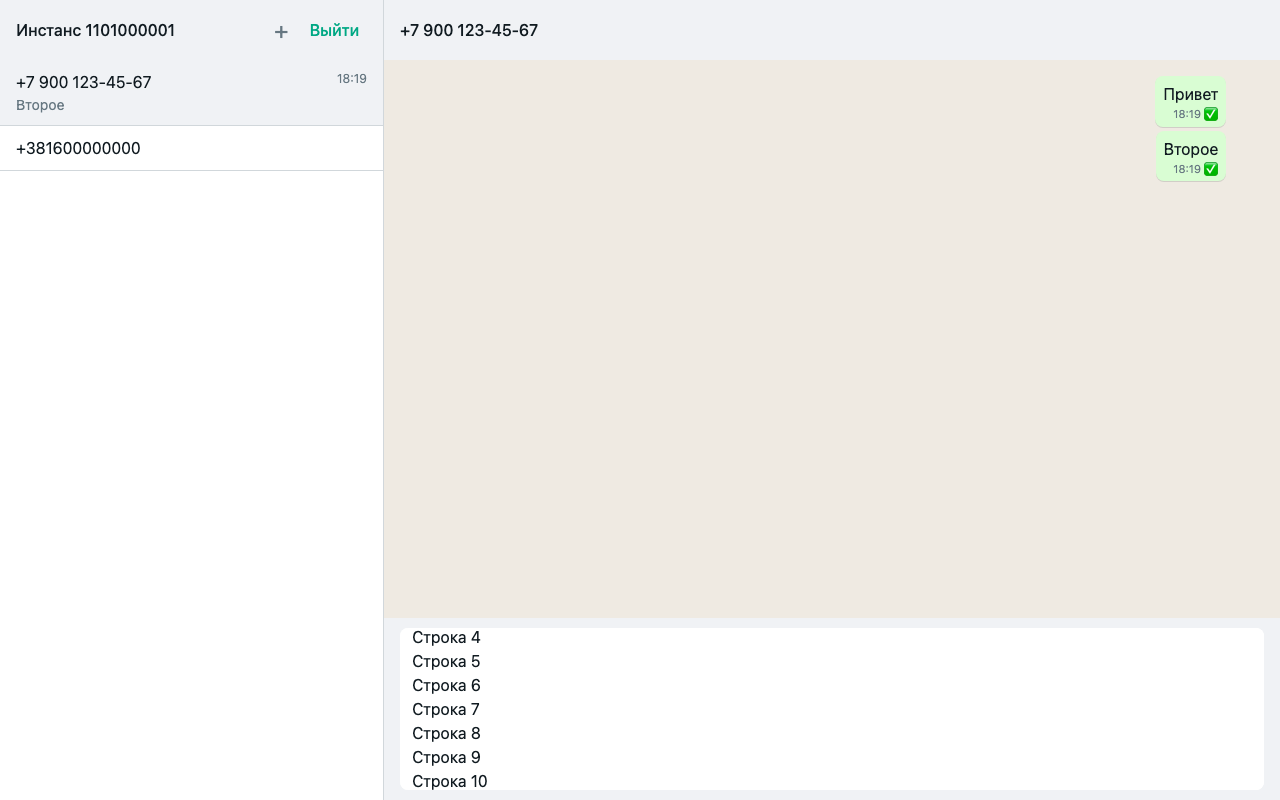
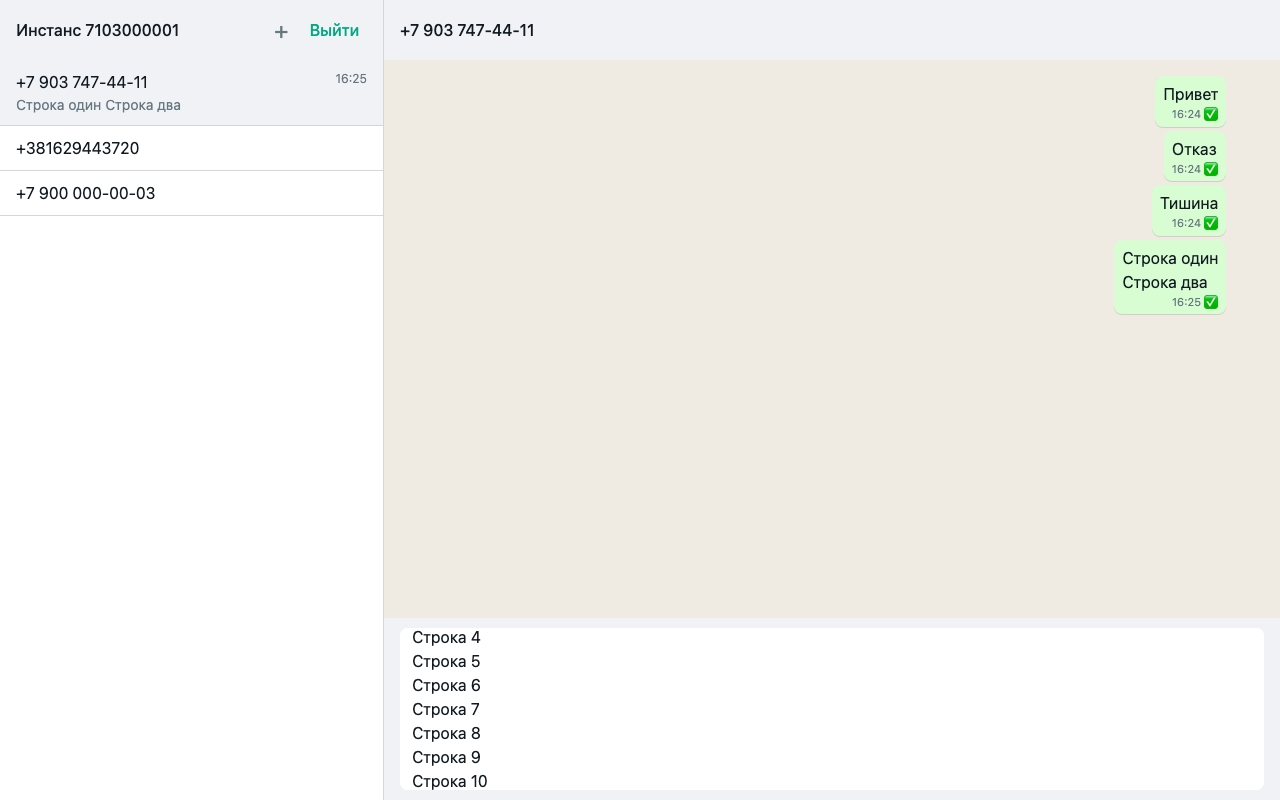
docs(spec): verify spec 003 and mark it completed
All 23 acceptance criteria verified on the live site; screenshots in
docs/screenshots/003-*.png; roadmap Chats & Sending ticked; TKT-4 done;
TKT-9 filed for the hard-to-see unknown-status mark.

Refs: TKT-4, TKT-9

diff --git a/context/spec/003-chats-sending/functional-spec.md b/context/spec/003-chats-sending/functional-spec.md
@@ -1,7 +1,7 @@
 # Functional Specification: Chats & Sending
 
 - **Roadmap Item:** Phase 1 → Chats & Sending (WhatsApp Web-style layout, new chat by phone number, sending text messages with status, chats saved across reloads)
-- **Status:** Draft
+- **Status:** Completed
 - **Author:** Alexander Shleyko
 - **Ticket:** TKT-4 · **Source:** `context/inbox/chats-sending.md` (grill decisions D1–D10)
 
@@ -35,23 +35,23 @@ The interface stays in Russian and as simple as WhatsApp Web.
 
   When the chat opens, the new-chat row closes. When no chat is created, the row stays open and the number stays in the field.
   - **Acceptance Criteria:**
-    - [ ] When the signed-in user clicks «+», then a row with the country picker set to 🇷🇺 Россия +7, an empty number field and «Начать чат» appears at the top of the chat list.
-    - [ ] Given Россия +7 is selected, when the user types `903 747-44-11` and clicks «Начать чат» for a number that uses WhatsApp, then a chat titled `+7 903 747-44-11` appears at the top of the list and opens.
-    - [ ] Given a number that doesn't use WhatsApp, when the user clicks «Начать чат», then they see «На этом номере нет WhatsApp», no chat appears, and the number is still in the field.
-    - [ ] Given Россия +7 is selected, when the user types `123` and clicks «Начать чат», then they see «Неверный номер. Проверьте код страны и номер.» and no chat appears.
-    - [ ] Given the WhatsApp check can't be completed, when the user clicks «Начать чат», then they see «Не удалось проверить номер. Попробуйте ещё раз.» and no chat appears.
-    - [ ] Given a chat with `+7 903 747-44-11` exists, when the user starts a chat with the same number again, then that existing chat opens and no second entry appears in the list.
-    - [ ] When the user picks «Другая страна», types `381` as the code and `629443720` as the number, and the number uses WhatsApp, then a chat titled `+381629443720` opens.
-    - [ ] When the user types letters into the number field, then «Начать чат» stays inactive.
-    - [ ] While the WhatsApp check is running, when the user tries to edit the number or click again, then nothing changes and the button reads «Проверяем…».
+    - [x] When the signed-in user clicks «+», then a row with the country picker set to 🇷🇺 Россия +7, an empty number field and «Начать чат» appears at the top of the chat list. _Verified 2026-10-07 (live `537be13`, Chromium, GREEN-API stubbed for fake instance `7103000001`): picker «🇷🇺 Россия +7», empty number, «Начать чат». See docs/screenshots/003-new-chat-row.png._
+    - [x] Given Россия +7 is selected, when the user types `903 747-44-11` and clicks «Начать чат» for a number that uses WhatsApp, then a chat titled `+7 903 747-44-11` appears at the top of the list and opens. _Verified 2026-10-07 (live `537be13`, Chromium, GREEN-API stubbed for fake instance `7103000001`): `903 747-44-11` → chat `+7 903 747-44-11` at the top and open, row closed. See docs/screenshots/003-chat-opened.png._
+    - [x] Given a number that doesn't use WhatsApp, when the user clicks «Начать чат», then they see «На этом номере нет WhatsApp», no chat appears, and the number is still in the field. _Verified 2026-10-07 (live `537be13`, Chromium, GREEN-API stubbed for fake instance `7103000001`): «На этом номере нет WhatsApp», 0 chats, number kept._
+    - [x] Given Россия +7 is selected, when the user types `123` and clicks «Начать чат», then they see «Неверный номер. Проверьте код страны и номер.» and no chat appears. _Verified 2026-10-07 (live `537be13`, Chromium, GREEN-API stubbed for fake instance `7103000001`, the real 400 body): `123` → «Неверный номер. Проверьте код страны и номер.», 0 chats._
+    - [x] Given the WhatsApp check can't be completed, when the user clicks «Начать чат», then they see «Не удалось проверить номер. Попробуйте ещё раз.» and no chat appears. _Verified 2026-10-07 (live `537be13`, Chromium, GREEN-API stubbed for fake instance `7103000001`): check answering 500 → «Не удалось проверить номер. Попробуйте ещё раз.», 0 chats. See docs/screenshots/003-check-failed.png._
+    - [x] Given a chat with `+7 903 747-44-11` exists, when the user starts a chat with the same number again, then that existing chat opens and no second entry appears in the list. _Verified 2026-10-07 (live `537be13`, Chromium, GREEN-API stubbed for fake instance `7103000001`): same number again → 0 new checks, no duplicate entry._
+    - [x] When the user picks «Другая страна», types `381` as the code and `629443720` as the number, and the number uses WhatsApp, then a chat titled `+381629443720` opens. _Verified 2026-10-07 (live `537be13`, Chromium, GREEN-API stubbed for fake instance `7103000001`): «Другая страна» + code `381` + `629443720` → `+381629443720` opens. See docs/screenshots/003-other-country.png._
+    - [x] When the user types letters into the number field, then «Начать чат» stays inactive. _Verified 2026-10-07 (live `537be13`, Chromium, GREEN-API stubbed for fake instance `7103000001`): `9a3` → «Начать чат» disabled._
+    - [x] While the WhatsApp check is running, when the user tries to edit the number or click again, then nothing changes and the button reads «Проверяем…». _Verified 2026-10-07 (live `537be13`, Chromium, GREEN-API stubbed for fake instance `7103000001`): during a slow check the field and button are disabled and the button reads «Проверяем…»._
 
 ### 2.2. Chat list
 
 - Each chat in the list shows the number, its last message cut to one line, and the time of that message. The newest activity is at the top. A new chat with no messages yet shows no preview and no time, and is placed by when it was created. Numbers starting with +7 are shown as `+7 903 747-44-11`; all other numbers are shown as `+` and the digits, e.g. `+381629443720`.
 - Clicking a chat opens it in the right area and highlights it in the list. With no chats yet, the list shows «Нет чатов. Нажмите «+», чтобы начать». While no chat is open, the right area shows «Выберите чат, чтобы начать переписку».
   - **Acceptance Criteria:**
-    - [ ] Given two chats, when the user sends a message in the one lower in the list, then that chat moves to the top and shows the message and its time.
-    - [ ] Given no chats, when the user looks at the left column, then they see «Нет чатов. Нажмите «+», чтобы начать».
+    - [x] Given two chats, when the user sends a message in the one lower in the list, then that chat moves to the top and shows the message and its time. _Verified 2026-10-07 (live `537be13`, Chromium, GREEN-API stubbed for fake instance `7103000001`): sending in the lowest chat moved it to the top with «Наверх» and `HH:MM`._
+    - [x] Given no chats, when the user looks at the left column, then they see «Нет чатов. Нажмите «+», чтобы начать». _Verified 2026-10-07 (live `537be13`, Chromium, GREEN-API stubbed for fake instance `7103000001`): fresh sign-in shows «Нет чатов. Нажмите «+», чтобы начать». See docs/screenshots/003-empty-list.png._
 
 ### 2.3. Conversation and sending
 
@@ -61,28 +61,28 @@ The interface stays in Russian and as simple as WhatsApp Web.
 - The message box grows with the text up to 6 lines; after that it scrolls inside.
 - The conversation scrolls to the newest message whenever the user sends one.
   - **Acceptance Criteria:**
-    - [ ] Given an open chat, when the user types «Привет» and presses Enter, then a right-hand bubble «Привет» appears with the current time and 🕓, which turns into ✅ once GREEN-API accepts it, and the box is empty again.
-    - [ ] Given GREEN-API refuses the message, when the user looks at the bubble, then it shows ❗ and «Не отправлено · Повторить», and when they click «Повторить» and sending succeeds, then the same bubble shows ✅.
-    - [ ] Given GREEN-API doesn't answer while sending, when the user looks at the bubble, then it shows ❔ «Статус неизвестен · Повторить», and when they click «Повторить», then they are asked «Сообщение могло уже уйти. Отправить ещё раз?» before anything is sent.
-    - [ ] When the user presses Shift+Enter between two lines and then Enter, then one bubble shows both lines.
-    - [ ] When the user presses Enter in an empty box, or one with only spaces, then nothing is sent.
-    - [ ] When the user types 10 lines, then the box stops growing at 6 lines and scrolls inside.
-    - [ ] When the user pastes a text longer than 20 000 characters, then the box keeps only the first 20 000.
+    - [x] Given an open chat, when the user types «Привет» and presses Enter, then a right-hand bubble «Привет» appears with the current time and 🕓, which turns into ✅ once GREEN-API accepts it, and the box is empty again. _Verified 2026-10-07 (live `537be13`, Chromium, GREEN-API stubbed for fake instance `7103000001`): «Привет» → 🕓 while sending, then ✅; box empty. See docs/screenshots/003-sent.png._
+    - [x] Given GREEN-API refuses the message, when the user looks at the bubble, then it shows ❗ and «Не отправлено · Повторить», and when they click «Повторить» and sending succeeds, then the same bubble shows ✅. _Verified 2026-10-07 (live `537be13`, Chromium, GREEN-API stubbed for fake instance `7103000001`): a 400 → ❗ «Не отправлено · Повторить» → «Повторить» → ✅ on the same bubble. See docs/screenshots/003-failed.png._
+    - [x] Given GREEN-API doesn't answer while sending, when the user looks at the bubble, then it shows ❔ «Статус неизвестен · Повторить», and when they click «Повторить», then they are asked «Сообщение могло уже уйти. Отправить ещё раз?» before anything is sent. _Verified 2026-10-07 (live `537be13`, Chromium, GREEN-API stubbed for fake instance `7103000001`): no answer → ❔ «Статус неизвестен · Повторить»; «Повторить» asks «Сообщение могло уже уйти. Отправить ещё раз?»; dismiss → 0 sends, accept → 1 send → ✅. See docs/screenshots/003-unknown.png (the ❔ is hard to see; follow-up TKT-9)._
+    - [x] When the user presses Shift+Enter between two lines and then Enter, then one bubble shows both lines. _Verified 2026-10-07 (live `537be13`, Chromium, GREEN-API stubbed for fake instance `7103000001`): Shift+Enter → one bubble with both lines._
+    - [x] When the user presses Enter in an empty box, or one with only spaces, then nothing is sent. _Verified 2026-10-07 (live `537be13`, Chromium, GREEN-API stubbed for fake instance `7103000001`): Enter on an empty box and on spaces → 0 sends._
+    - [x] When the user types 10 lines, then the box stops growing at 6 lines and scrolls inside. _Verified 2026-10-07 (live `537be13`, Chromium, GREEN-API stubbed for fake instance `7103000001`): box 42 px → 162 px at 6 lines, still 162 px at 10 lines, scrollHeight 258. See docs/screenshots/003-composer-6-lines.png._
+    - [x] When the user pastes a text longer than 20 000 characters, then the box keeps only the first 20 000. _Verified 2026-10-07 (live `537be13`, Chromium, GREEN-API stubbed for fake instance `7103000001`): inserting 20 500 characters keeps 20 000._
 
 ### 2.4. Chats kept across reloads
 
 - Chats and messages stay in this browser after a reload. A message that was still being sent when the page was closed shows ❔ «Статус неизвестен · Повторить» after the reload; it isn't resent by itself. Each chat keeps its unsent text in the message box when the user switches to another chat and after a reload. Logging out removes all chats, messages and unsent texts from this browser.
   - **Acceptance Criteria:**
-    - [ ] Given two chats with messages, when the user reloads the page, then both chats and all their messages are still there with their marks.
-    - [ ] Given a message still shows 🕓, when the page is reloaded, then that message shows ❔ and «Статус неизвестен · Повторить».
-    - [ ] Given the user typed «черновик» in chat A without sending, when they open chat B, come back to A and reload the page, then «черновик» is still in chat A's message box.
-    - [ ] Given chats exist, when the user clicks «Выйти» and signs in again, then the chat list shows «Нет чатов. Нажмите «+», чтобы начать».
+    - [x] Given two chats with messages, when the user reloads the page, then both chats and all their messages are still there with their marks. _Verified 2026-10-07 (live `537be13`, Chromium, GREEN-API stubbed for fake instance `7103000001`): after reload both chats and their ✅/❗ marks are still there. See docs/screenshots/003-after-reload.png._
+    - [x] Given a message still shows 🕓, when the page is reloaded, then that message shows ❔ and «Статус неизвестен · Повторить». _Verified 2026-10-07 (live `537be13`, Chromium, GREEN-API stubbed for fake instance `7103000001`): a message left on 🕓 shows ❔ «Статус неизвестен» after reload._
+    - [x] Given the user typed «черновик» in chat A without sending, when they open chat B, come back to A and reload the page, then «черновик» is still in chat A's message box. _Verified 2026-10-07 (live `537be13`, Chromium, GREEN-API stubbed for fake instance `7103000001`): «черновик» kept across a chat switch and a reload._
+    - [x] Given chats exist, when the user clicks «Выйти» and signs in again, then the chat list shows «Нет чатов. Нажмите «+», чтобы начать». _Verified 2026-10-07 (live `537be13`, Chromium, GREEN-API stubbed for fake instance `7103000001`): «Выйти» → sign in again → «Нет чатов. Нажмите «+», чтобы начать»._
 
 ### 2.5. Real WhatsApp delivery
 
 - A message sent from the app arrives in the recipient's WhatsApp.
   - **Acceptance Criteria:**
-    - [ ] Given a signed-in real instance, when the user starts a chat with their second WhatsApp number and sends «Привет», then the bubble shows ✅ and «Привет» arrives on that phone.
+    - [x] Given a signed-in real instance, when the user starts a chat with their second WhatsApp number and sends «Привет», then the bubble shows ✅ and «Привет» arrives on that phone. _Verified 2026-10-07 by the user on live `537be13` with the real instance: «Привет» → ✅ and it arrived on the main phone ("works like charm")._
 
 ---
 

diff --git a/context/product/roadmap.md b/context/product/roadmap.md
@@ -17,11 +17,11 @@ _The highest priority features that form the core foundation of the product: the
   - [x] **Credentials Login with Readiness Check:** Let the user enter `idInstance` and `apiTokenInstance` (the API URL is filled in from `idInstance`, with a checkbox to override it) and only let them in once the instance exists, is authorized in WhatsApp, and is ready to receive replies (incoming notifications on, no webhook set). Otherwise, say which check failed and what to change in the GREEN-API console, so a reviewer never ends up in a chat that can't receive.
   - [x] **Remembered Session & Logout:** Keep the user signed in across reloads (re-checking the saved credentials each time) and let them log out, which clears credentials and chats from the browser.
 
-- [ ] **Chats & Sending**
-  - [ ] **WhatsApp Web-Style Chat Layout:** A sidebar chat list, a conversation pane with a header, incoming and outgoing bubbles with timestamps, a composer, and empty states, so the app feels familiar straight away.
-  - [ ] **New Chat by Phone Number:** Start a conversation by entering the recipient's international number. Different spellings of the same number open the same chat, and invalid numbers are rejected with a clear message.
-  - [ ] **Send Text Messages with Status:** Send text from the composer (Enter sends). Each message shows sending → sent, or failed with its text kept and a manual retry, so the user always knows whether a message went out and never sends one twice by accident.
-  - [ ] **Chats Saved Across Reloads:** The chat list and its messages survive a page reload, so a reviewer doesn't lose the conversation while testing.
+- [x] **Chats & Sending**
+  - [x] **WhatsApp Web-Style Chat Layout:** A sidebar chat list, a conversation pane with a header, incoming and outgoing bubbles with timestamps, a composer, and empty states, so the app feels familiar straight away.
+  - [x] **New Chat by Phone Number:** Start a conversation by entering the recipient's international number. Different spellings of the same number open the same chat, and invalid numbers are rejected with a clear message.
+  - [x] **Send Text Messages with Status:** Send text from the composer (Enter sends). Each message shows sending → sent, or failed with its text kept and a manual retry, so the user always knows whether a message went out and never sends one twice by accident.
+  - [x] **Chats Saved Across Reloads:** The chat list and its messages survive a page reload, so a reviewer doesn't lose the conversation while testing.
 
 - [ ] **Receiving Replies**
   - [ ] **Incoming Text Messages in the Right Chat:** Replies from the recipient appear in their chat within 10 seconds, without a reload. This is the brief's final success step.

diff --git a/context/spec/003-chats-sending/technical-considerations.md b/context/spec/003-chats-sending/technical-considerations.md
@@ -6,7 +6,7 @@ It is NOT a copy-paste implementation guide.
 # Technical Specification: Chats & Sending
 
 - **Functional Specification:** [functional-spec.md](functional-spec.md)
-- **Status:** Draft
+- **Status:** Completed
 - **Author(s):** Alexander Shleyko (lead) · `react-frontend` consult: [consults/](consults/) (`react-frontend-tech-chats-*.md`; GREEN-API docs and fake-credential probes, 2026-10-06)
 
 ---
